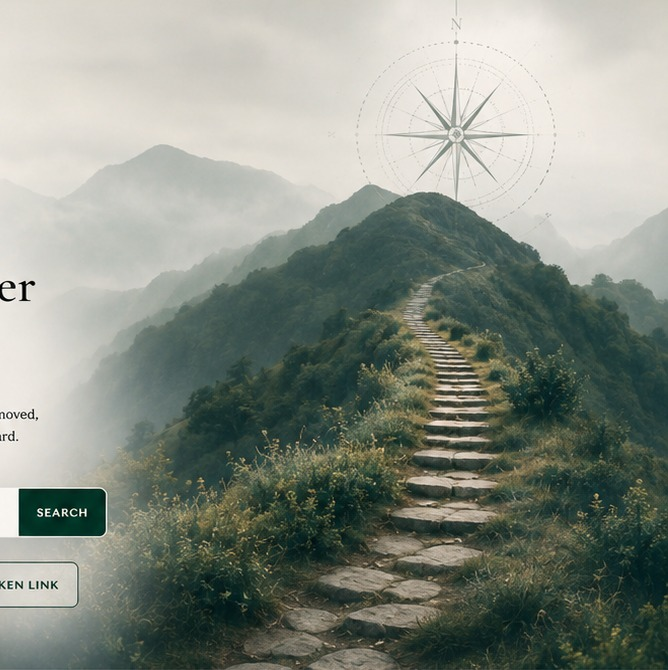
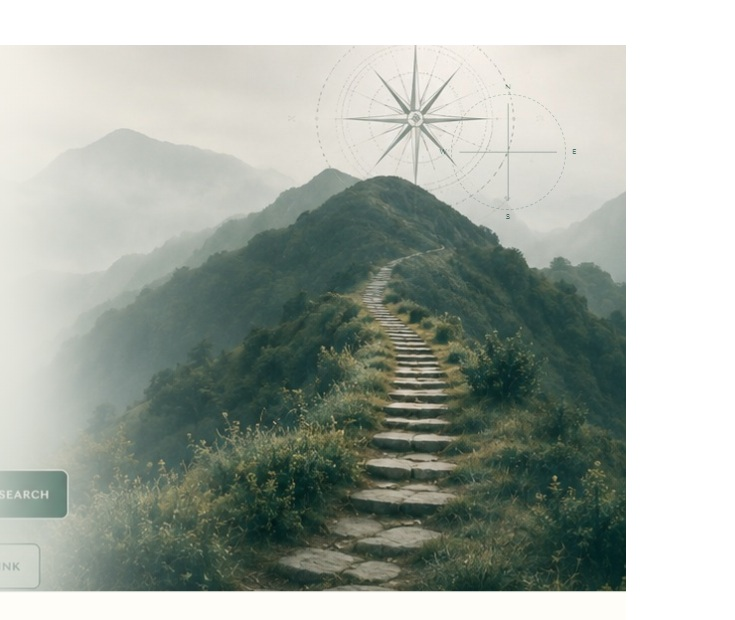
fixed

diff --git a/404.html b/404.html
@@ -1,6 +1,6 @@
 <!doctype html>
 <html lang="en">
-<head><meta charset="utf-8"/><meta content="width=device-width,initial-scale=1" name="viewport"/><title>404 — Off the Map | Segun Samuel</title><link href="assets/css/styles.css" rel="stylesheet"/><meta content="Strategic foresight, pattern intelligence, architecture, execution, institutions, psychology, philosophy, technology and learning." name="description"/><meta content="Segun Samuel" name="author"/><meta content="index,follow" name="robots"/><meta content="index,follow" name="googlebot"/><meta content="SegunSamuel — See Reality Clearly. Build What Comes Next." property="og:title"/><meta content="Strategic foresight, pattern intelligence, architecture, execution, institutions, psychology, philosophy, technology and learning." property="og:description"/><meta content="website" property="og:type"/><meta content="https://greaterheight.github.io/Thesegunsamuel/" property="og:url"/><meta content="SegunSamuel" property="og:site_name"/><meta content="summary_large_image" name="twitter:card"/><meta content="SegunSamuel — See Reality Clearly. Build What Comes Next." name="twitter:title"/><meta content="Strategic foresight, pattern intelligence, architecture, execution, institutions, psychology, philosophy, technology and learning." name="twitter:description"/><script type="application/ld+json">{"@context":"https://schema.org","@type":"WebSite","@id":"https://greaterheight.github.io/Thesegunsamuel/#website","url":"https://greaterheight.github.io/Thesegunsamuel/","name":"SegunSamuel","description":"The SegunSamuel knowledge, learning and intellectual ecosystem."}</script><script type="application/ld+json">{"@context":"https://schema.org","@type":"WebPage","name":"SegunSamuel — See Reality Clearly. Build What Comes Next.","description":"Strategic foresight, pattern intelligence, architecture, execution, institutions, psychology, philosophy, technology and learning.","url":"https://greaterheight.github.io/Thesegunsamuel/","isPartOf":{"@id":"https://greaterheight.github.io/Thesegunsamuel/#website"}}</script><script type="application/ld+json">{"@context":"https://schema.org","@type":"BreadcrumbList","itemListElement":[{"@type":"ListItem","position":1,"name":"Home","item":"https://greaterheight.github.io/Thesegunsamuel/"},{"@type":"ListItem","position":2,"name":"See reality clearly. Build what comes next.","item":"https://greaterheight.github.io/Thesegunsamuel/"}]}</script><link rel="stylesheet" href="assets/css/privacy.css"><link rel="stylesheet" href="assets/css/accessibility-v31.css"><link rel="icon" href="assets/images/segunsamuel-logo-badge-01.png"><!-- v3.1.1 footer -->
+<head><meta charset="utf-8"/><meta content="width=device-width,initial-scale=1" name="viewport"/><title>404 — Off the Map | Segun Samuel</title><link href="/Thesegunsamuel/assets/css/styles.css" rel="stylesheet"/><meta content="Strategic foresight, pattern intelligence, architecture, execution, institutions, psychology, philosophy, technology and learning." name="description"/><meta content="Segun Samuel" name="author"/><meta content="index,follow" name="robots"/><meta content="index,follow" name="googlebot"/><meta content="SegunSamuel — See Reality Clearly. Build What Comes Next." property="og:title"/><meta content="Strategic foresight, pattern intelligence, architecture, execution, institutions, psychology, philosophy, technology and learning." property="og:description"/><meta content="website" property="og:type"/><meta content="https://greaterheight.github.io/Thesegunsamuel/" property="og:url"/><meta content="SegunSamuel" property="og:site_name"/><meta content="summary_large_image" name="twitter:card"/><meta content="SegunSamuel — See Reality Clearly. Build What Comes Next." name="twitter:title"/><meta content="Strategic foresight, pattern intelligence, architecture, execution, institutions, psychology, philosophy, technology and learning." name="twitter:description"/><script type="application/ld+json">{"@context":"https://schema.org","@type":"WebSite","@id":"https://greaterheight.github.io/Thesegunsamuel/#website","url":"https://greaterheight.github.io/Thesegunsamuel/","name":"SegunSamuel","description":"The SegunSamuel knowledge, learning and intellectual ecosystem."}</script><script type="application/ld+json">{"@context":"https://schema.org","@type":"WebPage","name":"SegunSamuel — See Reality Clearly. Build What Comes Next.","description":"Strategic foresight, pattern intelligence, architecture, execution, institutions, psychology, philosophy, technology and learning.","url":"https://greaterheight.github.io/Thesegunsamuel/","isPartOf":{"@id":"https://greaterheight.github.io/Thesegunsamuel/#website"}}</script><script type="application/ld+json">{"@context":"https://schema.org","@type":"BreadcrumbList","itemListElement":[{"@type":"ListItem","position":1,"name":"Home","item":"https://greaterheight.github.io/Thesegunsamuel/"},{"@type":"ListItem","position":2,"name":"See reality clearly. Build what comes next.","item":"https://greaterheight.github.io/Thesegunsamuel/"}]}</script><link rel="stylesheet" href="/Thesegunsamuel/assets/css/privacy.css"><link rel="stylesheet" href="/Thesegunsamuel/assets/css/accessibility-v31.css"><link rel="icon" href="assets/images/segunsamuel-logo-badge-01.png"><!-- v3.1.1 footer -->
 
 <style id="v311-footer">
 .site-footer{background:#003020;color:#fdfaf4;padding:54px 4vw 26px;font-family:inherit}
@@ -130,7 +130,7 @@
 <body>
 <header class="site-header ss-global-header" data-global-nav="">
 <div class="container ss-nav-container">
-<a aria-label="SegunSamuel Home" class="brand ss-brand" href="index.html"><img class="ss-brand-mark" src="assets/images/segunsamuel-logo.png" alt="" aria-hidden="true"><span class="ss-brand-wordmark">SEGUN <span>SAMUEL</span></span></a>
+<a aria-label="SegunSamuel Home" class="brand ss-brand" href="index.html"><img class="ss-brand-mark" src="/Thesegunsamuel/assets/images/segunsamuel-logo.png" alt="" aria-hidden="true"><span class="ss-brand-wordmark">SEGUN <span>SAMUEL</span></span></a>
 <button aria-expanded="false" aria-label="Open navigation" class="ss-nav-toggle" type="button">
 <span></span><span></span><span></span>
 </button>
@@ -173,7 +173,7 @@
 
 <style id="segun-404-final-design">
 :root{--404-cream:#f8f5ed;--404-green:#003f2d;--404-green-2:#0b5945;--404-gold:#c99a27;--404-line:rgba(0,63,45,.18)}
-.error404-page{background:var(--404-cream);color:var(--404-green);overflow:hidden}
+.error404-page{margin:0;background:var(--404-cream);color:var(--404-green);overflow:hidden}
 .error404-hero{position:relative;min-height:660px;display:grid;grid-template-columns:minmax(0,1.02fr) minmax(0,.98fr);background:var(--404-cream)}
 .error404-copy{position:relative;z-index:3;padding:92px clamp(28px,8vw,118px) 72px;display:flex;flex-direction:column;justify-content:center}
 .error404-eyebrow{font-family:var(--sans,"Tenor Sans",sans-serif);font-size:11px;letter-spacing:.22em;text-transform:uppercase;font-weight:600;display:flex;align-items:center;gap:12px;margin-bottom:22px}
@@ -190,7 +190,7 @@
 .error404-btn{min-height:49px;padding:0 22px;border-radius:6px;display:inline-flex;align-items:center;gap:12px;font:600 10px var(--sans,"Tenor Sans",sans-serif);letter-spacing:.12em;text-transform:uppercase;text-decoration:none}
 .error404-btn-primary{background:var(--404-green);color:#fff}
 .error404-btn-secondary{border:1px solid rgba(0,63,45,.45);color:var(--404-green);background:rgba(255,255,255,.38)}
-.error404-art{position:relative;min-height:660px;background-image:linear-gradient(90deg,var(--404-cream) 0%,rgba(248,245,237,.35) 18%,rgba(248,245,237,0) 45%),url("/Thesegunsamuel/assets/images/404-mountain-path.jpg");background-size:cover;background-position:center;overflow:hidden}
+.error404-art{position:relative;min-height:660px;background-image:linear-gradient(90deg,var(--404-cream) 0%,rgba(248,245,237,.20) 10%,rgba(248,245,237,0) 30%),url("/Thesegunsamuel/assets/images/404-mountain-path.jpg");background-size:cover;background-position:center;overflow:hidden}
 .error404-art:after{content:"";position:absolute;inset:0;background:linear-gradient(180deg,rgba(248,245,237,.04),rgba(0,63,45,.12))}
 .error404-compass{position:absolute;z-index:2;right:9%;top:9%;width:170px;height:170px;border:1px dashed rgba(0,63,45,.3);border-radius:50%;opacity:.65}
 .error404-compass:before,.error404-compass:after{content:"";position:absolute;left:50%;top:50%;background:rgba(0,63,45,.45);transform-origin:center}
@@ -283,8 +283,8 @@
   </div>
   <div class="footer-bottom v33-footer-bottom"><span>© 2026 SEGUN SAMUEL. ALL RIGHTS RESERVED.</span><span class="v33-footer-center">DEVELOPED BY <a href="https://greaterheight.tech" rel="noopener">GREATERHEIGHT TECHNOLOGIES</a></span><span class="v33-footer-right"><a href="/Thesegunsamuel/about/">ABOUT</a><a href="/Thesegunsamuel/explore/">EXPLORE THE KNOWLEDGE GRAPH</a></span></div>
 </footer>
-<script src="assets/js/main.js"></script>
-<script defer="" src="assets/js/global-nav.js"></script>
-<script src="assets/js/privacy.js" defer></script>
+<script src="/Thesegunsamuel/assets/js/main.js"></script>
+<script defer="" src="/Thesegunsamuel/assets/js/global-nav.js"></script>
+<script src="/Thesegunsamuel/assets/js/privacy.js" defer></script>
 </body>
 </html>
